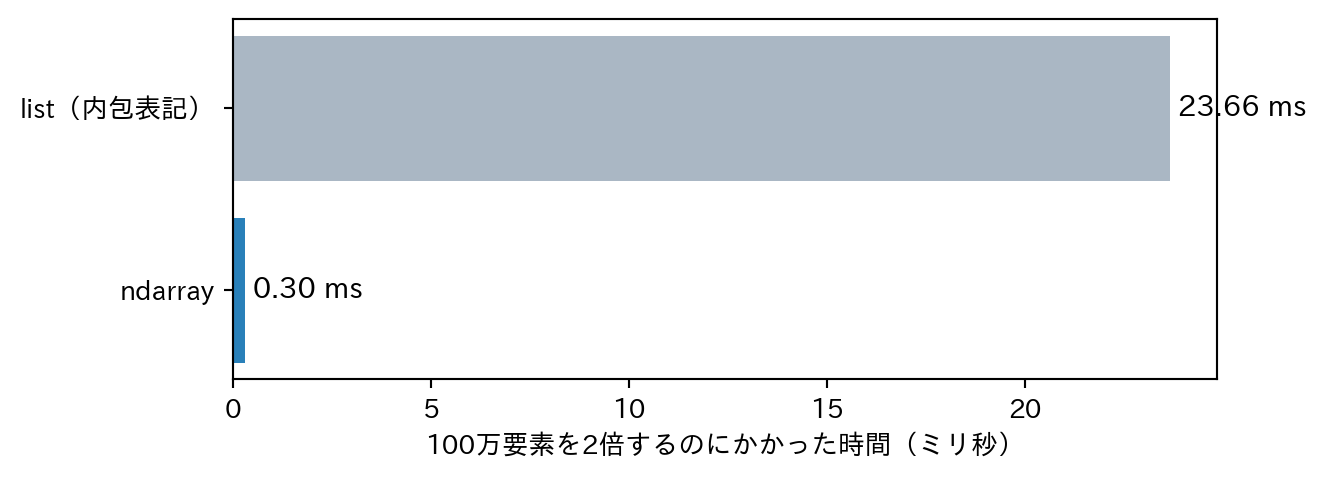
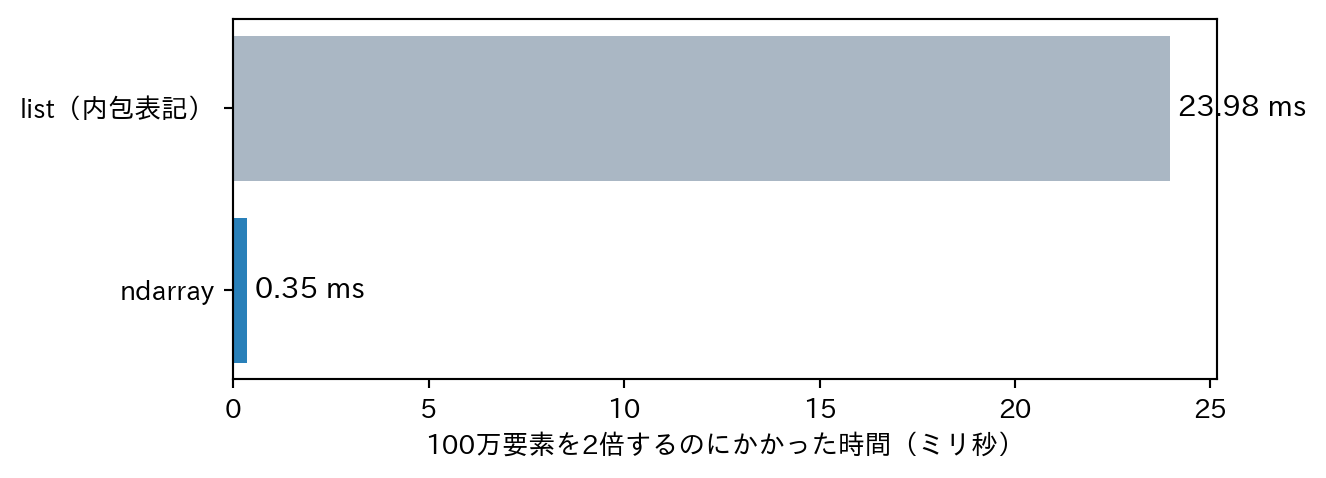
Built site for gh-pages

diff --git a/api.html b/api.html
@@ -332,7 +332,7 @@ rkskmt
 <li>このゆるいつなぎ方を<strong>疎結合</strong>（<span class="en">loose coupling</span>）と呼ぶ</li>
 <li>壊れにくく、誰にも断らずに広げられるため、後日<span class="en">World Wide Web</span>として爆発的に普及</li>
 </ul>
-<div id="53d04029" class="cell" data-execution_count="1">
+<div id="913eb193" class="cell" data-execution_count="1">
 <div class="cell-output cell-output-display">
 <div class="quarto-figure quarto-figure-center">
 <figure>
@@ -380,10 +380,11 @@ rkskmt
 </div>
 </div>
 </section>
-<section id="webブラウザ-htmlを閲覧するためのアプリ" class="slide level2">
+<section id="webブラウザ-htmlを閲覧するためのアプリ" class="slide level2 scrollable">
 <h2>Webブラウザ – HTMLを閲覧するためのアプリ</h2>
-<section id="webブラウザの仕事大きく２つ" class="slide-body scrollable">
-<h4>Webブラウザの仕事（大きく２つ）</h4>
+<div class="slide-body">
+
+<h4 id="webブラウザの仕事大きく２つ">Webブラウザの仕事（大きく２つ）</h4>
 <ol type="1">
 <li>HTMLを取得する
 <ol type="a">
@@ -413,7 +414,7 @@ rkskmt
 </div>
 </div>
 </div>
-</section>
+</div>
 </section>
 <section id="http-htmlを通信で取り寄せる取り決め" class="slide level2">
 <h2>HTTP – HTMLを通信で取り寄せる取り決め</h2>
@@ -467,6 +468,7 @@ rkskmt
 <section id="requestsを使ってhttpで要求する" class="slide level2">
 <h2>requestsを使ってHTTPで要求する</h2>
 <div class="slide-body">
+
 <h4 id="webブラウザを使わずにhttpで生のhtmlを要求">Webブラウザを使わずにHTTPで生のHTMLを要求</h4>
 <ul>
 <li>requestsはHTTP・HTTPS専用のライブラリ</li>
@@ -505,13 +507,14 @@ rkskmt
 </section>
 <section id="webサーバとrequests間で行われたやりとり" class="slide level2">
 <h2>Webサーバとrequests間で行われたやりとり</h2>
-<section id="リクエストrequestとレスポンスresponse" class="slide-body">
-<h4>リクエスト（<span class="en">request</span>）とレスポンス（<span class="en">response</span>）</h4>
+<div class="slide-body">
+
+<h4 id="リクエストrequestとレスポンスresponse">リクエスト（<span class="en">request</span>）とレスポンス（<span class="en">response</span>）</h4>
 <ul>
 <li>リクエスト：サーバに返信を要求すること</li>
 <li>レスポンス：リクエストに対するサーバの返信</li>
 </ul>
-<div id="a4f7e22b" class="cell" data-execution_count="2">
+<div id="83992fb9" class="cell" data-execution_count="2">
 <div class="cell-output cell-output-display">
 <div class="quarto-figure quarto-figure-center">
 <figure>
@@ -520,7 +523,7 @@ rkskmt
 </div>
 </div>
 </div>
-</section>
+</div>
 </section>
 <section id="リクエストとレスポンスは1往復" class="slide level2">
 <h2>リクエストとレスポンスは1往復</h2>
@@ -535,7 +538,7 @@ rkskmt
 <li>テキストとは限らない。例えば、画像だったらバイナリファイル</li>
 </ul></li>
 </ul>
-<div id="fdcd8f56" class="cell" data-execution_count="3">
+<div id="660a8150" class="cell" data-execution_count="3">
 <div class="cell-output cell-output-display">
 <div class="quarto-figure quarto-figure-center">
 <figure>
@@ -834,6 +837,7 @@ rkskmt
 <section id="今回利用するapi" class="slide level2">
 <h2>今回利用するAPI</h2>
 <div class="slide-body">
+
 <h4 id="wikimedia-analytics-api">Wikimedia Analytics API</h4>
 <p>Wikimedia Foundationが公開している、ページビュー統計のAPI</p>
 <h4 id="一旦以下のurlをブラウザで開いてみよう">一旦、以下のURLをブラウザで開いてみよう</h4>
@@ -906,7 +910,7 @@ rkskmt
 <span id="cb13-3"><a aria-label="3"></a></span>
 <span id="cb13-4"><a aria-label="4"></a>res_dict <span class="op">=</span> json.loads(response.text) <span class="co"># これでdictになる</span></span>
 <span id="cb13-5"><a aria-label="5"></a><span class="bu">print</span>(<span class="bu">type</span>(res_dict), res_dict)</span></code></pre></div><button title="コピー" class="code-copy-button"><i class="bi"></i></button></div>
-<div id="7949c2d1" class="cell" data-execution_count="4">
+<div id="1dea9a31" class="cell" data-execution_count="4">
 <div class="cell-output cell-output-display">
 <div class="quarto-figure quarto-figure-center">
 <figure>
@@ -1131,7 +1135,7 @@ rkskmt
 <span id="cb17-19"><a aria-label="19"></a><span class="bu">print</span>(<span class="ss">f"最小:   </span><span class="sc">{</span>views<span class="sc">.</span><span class="bu">min</span>()<span class="sc">}</span><span class="ss">回"</span>)</span>
 <span id="cb17-20"><a aria-label="20"></a><span class="bu">print</span>(<span class="ss">f"平均:   </span><span class="sc">{</span>views<span class="sc">.</span>mean()<span class="sc">:.1f}</span><span class="ss">回"</span>)</span>
 <span id="cb17-21"><a aria-label="21"></a><span class="bu">print</span>(<span class="ss">f"中央値: </span><span class="sc">{</span>np<span class="sc">.</span>median(views)<span class="sc">:.0f}</span><span class="ss">回"</span>)</span></code></pre></div><button title="コピー" class="code-copy-button"><i class="bi"></i></button></div>
-<div id="508d3dc1" class="cell" data-execution_count="5">
+<div id="1408b456" class="cell" data-execution_count="5">
 <div class="cell-output cell-output-stdout">
 <pre><code>日数:   365
 最大:   52168回
@@ -1298,7 +1302,7 @@ rkskmt
     </div>
   <div class="quarto-auto-generated-content" style="display: none;">
 <div class="footer footer-default">
-
+<!-- -->
 </div>
 </div></div>
 

diff --git a/numpy.html b/numpy.html
@@ -477,7 +477,7 @@ rkskmt
 <li>「for文が不要なため非常に高速」— 何倍くらい違うと思う？</li>
 </ul>
 <div class="fragment">
-<div id="eedccbb4" class="cell" data-execution_count="1">
+<div id="7208d4f6" class="cell" data-execution_count="1">
 <details class="code-fold">
 <summary>計測コードを表示</summary>
 <div class="code-copy-outer-scaffold"><div class="sourceCode cell-code" id="cb10"><pre class="sourceCode numberSource python number-lines code-with-copy"><code class="sourceCode python"><span id="cb10-1"><a aria-label="1"></a><span class="im">import</span> time</span>
@@ -504,12 +504,12 @@ rkskmt
 <span id="cb10-22"><a aria-label="22"></a><span class="bu">print</span>(<span class="ss">f"→ 約 </span><span class="sc">{</span>t_list <span class="op">/</span> t_arr<span class="sc">:.0f}</span><span class="ss"> 倍速い"</span>)</span></code></pre></div><button title="コピー" class="code-copy-button"><i class="bi"></i></button></div>
 </details>
 <div class="cell-output cell-output-stdout">
-<pre><code>list（内包表記）: 23.7 ミリ秒
-ndarray:          0.30 ミリ秒
-→ 約 80 倍速い</code></pre>
+<pre><code>list（内包表記）: 24.0 ミリ秒
+ndarray:          0.35 ミリ秒
+→ 約 68 倍速い</code></pre>
 </div>
 </div>
-<div id="2fc18740" class="cell" data-execution_count="2">
+<div id="7ad571c3" class="cell" data-execution_count="2">
 <div class="cell-output cell-output-display">
 <div class="quarto-figure quarto-figure-center">
 <figure>
@@ -582,7 +582,7 @@ ndarray:          0.30 ミリ秒
 <span id="cb13-14"><a aria-label="14"></a><span class="co"># 転置（transpose）</span></span>
 <span id="cb13-15"><a aria-label="15"></a><span class="bu">print</span>(A.T)</span>
 <span id="cb13-16"><a aria-label="16"></a><span class="bu">print</span>(B.T)</span></code></pre></div><button title="コピー" class="code-copy-button"><i class="bi"></i></button></div>
-<div id="21b1bd98" class="cell" data-execution_count="3">
+<div id="91011c72" class="cell" data-execution_count="3">
 <div class="cell-output cell-output-display">
 <div class="quarto-figure quarto-figure-center">
 <figure>
@@ -627,7 +627,7 @@ ndarray:          0.30 ミリ秒
 <span id="cb15-5"><a aria-label="5"></a></span>
 <span id="cb15-6"><a aria-label="6"></a><span class="bu">print</span>(np.mean(data, axis<span class="op">=</span><span class="dv">0</span>))  <span class="co"># 列ごと（各科目の平均）</span></span>
 <span id="cb15-7"><a aria-label="7"></a><span class="bu">print</span>(np.mean(data, axis<span class="op">=</span><span class="dv">1</span>))  <span class="co"># 行ごと（各生徒の平均）</span></span></code></pre></div><button title="コピー" class="code-copy-button"><i class="bi"></i></button></div>
-<div id="68d6246b" class="cell" data-execution_count="4">
+<div id="c2989a6d" class="cell" data-execution_count="4">
 <div class="cell-output cell-output-display">
 <div class="quarto-figure quarto-figure-center">
 <figure>
@@ -651,7 +651,7 @@ ndarray:          0.30 ミリ秒
 <span id="cb16-4"><a aria-label="4"></a></span>
 <span id="cb16-5"><a aria-label="5"></a><span class="bu">print</span>(scores <span class="op">&gt;=</span> <span class="dv">85</span>)           <span class="co"># True/False</span></span>
 <span id="cb16-6"><a aria-label="6"></a><span class="bu">print</span>(scores[scores <span class="op">&gt;=</span> <span class="dv">85</span>])   <span class="co"># 85点以上のデータ</span></span></code></pre></div><button title="コピー" class="code-copy-button"><i class="bi"></i></button></div>
-<div id="d6575a46" class="cell" data-execution_count="5">
+<div id="1a39c030" class="cell" data-execution_count="5">
 <div class="cell-output cell-output-display">
 <div class="quarto-figure quarto-figure-center">
 <figure>
@@ -678,7 +678,7 @@ ndarray:          0.30 ミリ秒
 <li>100以上400以下のランダムな整数１つ</li>
 <li>0以上1未満のランダムな数１つ</li>
 </ol>
-<div id="bccdbc84" class="cell" data-execution_count="6">
+<div id="88f36019" class="cell" data-execution_count="6">
 <details class="code-fold">
 <summary>解答例を見る</summary>
 <div class="code-copy-outer-scaffold"><div class="sourceCode cell-code" id="cb17"><pre class="sourceCode numberSource python number-lines code-with-copy"><code class="sourceCode python"><span id="cb17-1"><a aria-label="1"></a><span class="im">import</span> numpy <span class="im">as</span> np</span>
@@ -710,7 +710,7 @@ ndarray:          0.30 ミリ秒
 <li><code>li = [0.1, 0.2, 0.3]</code> でも同様に全要素の型を表示</li>
 <li>これもNumPyの配列 <code>arr2</code> に変換し、要素の型を表示</li>
 </ol>
-<div id="4ea1a35a" class="cell" data-execution_count="7">
+<div id="40610f73" class="cell" data-execution_count="7">
 <details class="code-fold">
 <summary>解答例を見る</summary>
 <div class="code-copy-outer-scaffold"><div class="sourceCode cell-code" id="cb18"><pre class="sourceCode numberSource python number-lines code-with-copy"><code class="sourceCode python"><span id="cb18-1"><a aria-label="1"></a><span class="im">import</span> numpy <span class="im">as</span> np</span>
@@ -740,7 +740,7 @@ ndarray:          0.30 ミリ秒
     </div>
   <div class="quarto-auto-generated-content" style="display: none;">
 <div class="footer footer-default">
-
+<!-- -->
 </div>
 </div></div>
 

diff --git a/final-project.html b/final-project.html
@@ -552,8 +552,9 @@ rkskmt
 </section>
 <section id="画面の表示非表示を切り替える" class="slide level2">
 <h2>画面の表示・非表示を切り替える</h2>
-<section id="テンプレートから抜粋" class="slide-body">
-<h4>テンプレートから抜粋</h4>
+<div class="slide-body">
+
+<h4 id="テンプレートから抜粋">テンプレートから抜粋</h4>
 <div class="code-copy-outer-scaffold"><div class="sourceCode" id="cb2"><pre class="sourceCode numberSource python number-lines code-with-copy"><code class="sourceCode python"><span id="cb2-1"><a aria-label="1"></a><span class="kw">def</span> show_screen(screen_name):</span>
 <span id="cb2-2"><a aria-label="2"></a>    top_screen.set_visibility(screen_name <span class="op">==</span> <span class="st">"top"</span>)</span>
 <span id="cb2-3"><a aria-label="3"></a>    main_screen.set_visibility(screen_name <span class="op">==</span> <span class="st">"main"</span>)</span>
@@ -578,7 +579,7 @@ rkskmt
 </div>
 </div>
 </div>
-</section>
+</div>
 </section>
 <section id="テンプレート全文" class="slide level2">
 <h2>テンプレート全文</h2>
@@ -604,7 +605,7 @@ rkskmt
 </div>
 </div>
 </div>
-<div id="9a1afe50" class="cell" data-execution_count="1">
+<div id="d81fe0e2" class="cell" data-execution_count="1">
 <details class="code-fold">
 <summary>テンプレート（API版）を表示</summary>
 <div class="code-copy-outer-scaffold"><div class="sourceCode cell-code" id="cb3"><pre class="sourceCode numberSource python number-lines code-with-copy"><code class="sourceCode python"><span id="cb3-1"><a aria-label="1"></a><span class="co">"""</span></span>
@@ -681,7 +682,7 @@ rkskmt
 <span id="cb3-72"><a aria-label="72"></a>ui.run()</span></code></pre></div><button title="コピー" class="code-copy-button"><i class="bi"></i></button></div>
 </details>
 </div>
-<div id="d91a994f" class="cell" data-execution_count="2">
+<div id="e8b4e933" class="cell" data-execution_count="2">
 <details class="code-fold">
 <summary>テンプレート（簡単版・lambdaなし）を表示</summary>
 <div class="code-copy-outer-scaffold"><div class="sourceCode cell-code" id="cb4"><pre class="sourceCode numberSource python number-lines code-with-copy"><code class="sourceCode python"><span id="cb4-1"><a aria-label="1"></a><span class="co">"""</span></span>
@@ -806,7 +807,7 @@ rkskmt
     </div>
   <div class="quarto-auto-generated-content" style="display: none;">
 <div class="footer footer-default">
-
+<!-- -->
 </div>
 </div></div>
 

diff --git a/api-spa.html b/api-spa.html
@@ -340,8 +340,9 @@ rkskmt
 </section>
 <section id="apiの応答を確認する" class="slide level2">
 <h2>APIの応答を確認する</h2>
-<section id="ブラウザで-httplocalhost8080apihello-を開く" class="slide-body">
-<h4>ブラウザで <code>http://localhost:8080/api/hello</code> を開く</h4>
+<div class="slide-body">
+
+<h4 id="ブラウザで-httplocalhost8080apihello-を開く">ブラウザで <code>http://localhost:8080/api/hello</code> を開く</h4>
 <div class="code-copy-outer-scaffold"><div class="sourceCode" id="cb2"><pre class="sourceCode numberSource json number-lines code-with-copy"><code class="sourceCode json"><span id="cb2-1"><a aria-label="1"></a><span class="fu">{</span><span class="dt">"message"</span><span class="fu">:</span> <span class="st">"Hello, API!"</span><span class="fu">}</span></span></code></pre></div><button title="コピー" class="code-copy-button"><i class="bi"></i></button></div>
 <table class="caption-top">
 <colgroup>
@@ -369,7 +370,7 @@ rkskmt
 </tr>
 </tbody>
 </table>
-</section>
+</div>
 </section>
 <section id="の行の正体デコレータ" class="slide level2">
 <h2><code>@</code> の行の正体：デコレータ</h2>
@@ -688,7 +689,7 @@ rkskmt
 </div>
 </div>
 </div>
-<div id="9a710eb2" class="cell" data-execution_count="1">
+<div id="85063176" class="cell" data-execution_count="1">
 <details class="code-fold">
 <summary>エンドポイント追加の解答例を表示</summary>
 <div class="code-copy-outer-scaffold"><div class="sourceCode cell-code" id="cb9"><pre class="sourceCode numberSource python number-lines code-with-copy"><code class="sourceCode python"><span id="cb9-1"><a aria-label="1"></a><span class="im">from</span> nicegui <span class="im">import</span> ui, app</span>
@@ -806,7 +807,7 @@ rkskmt
     </div>
   <div class="quarto-auto-generated-content" style="display: none;">
 <div class="footer footer-default">
-
+<!-- -->
 </div>
 </div></div>
 
